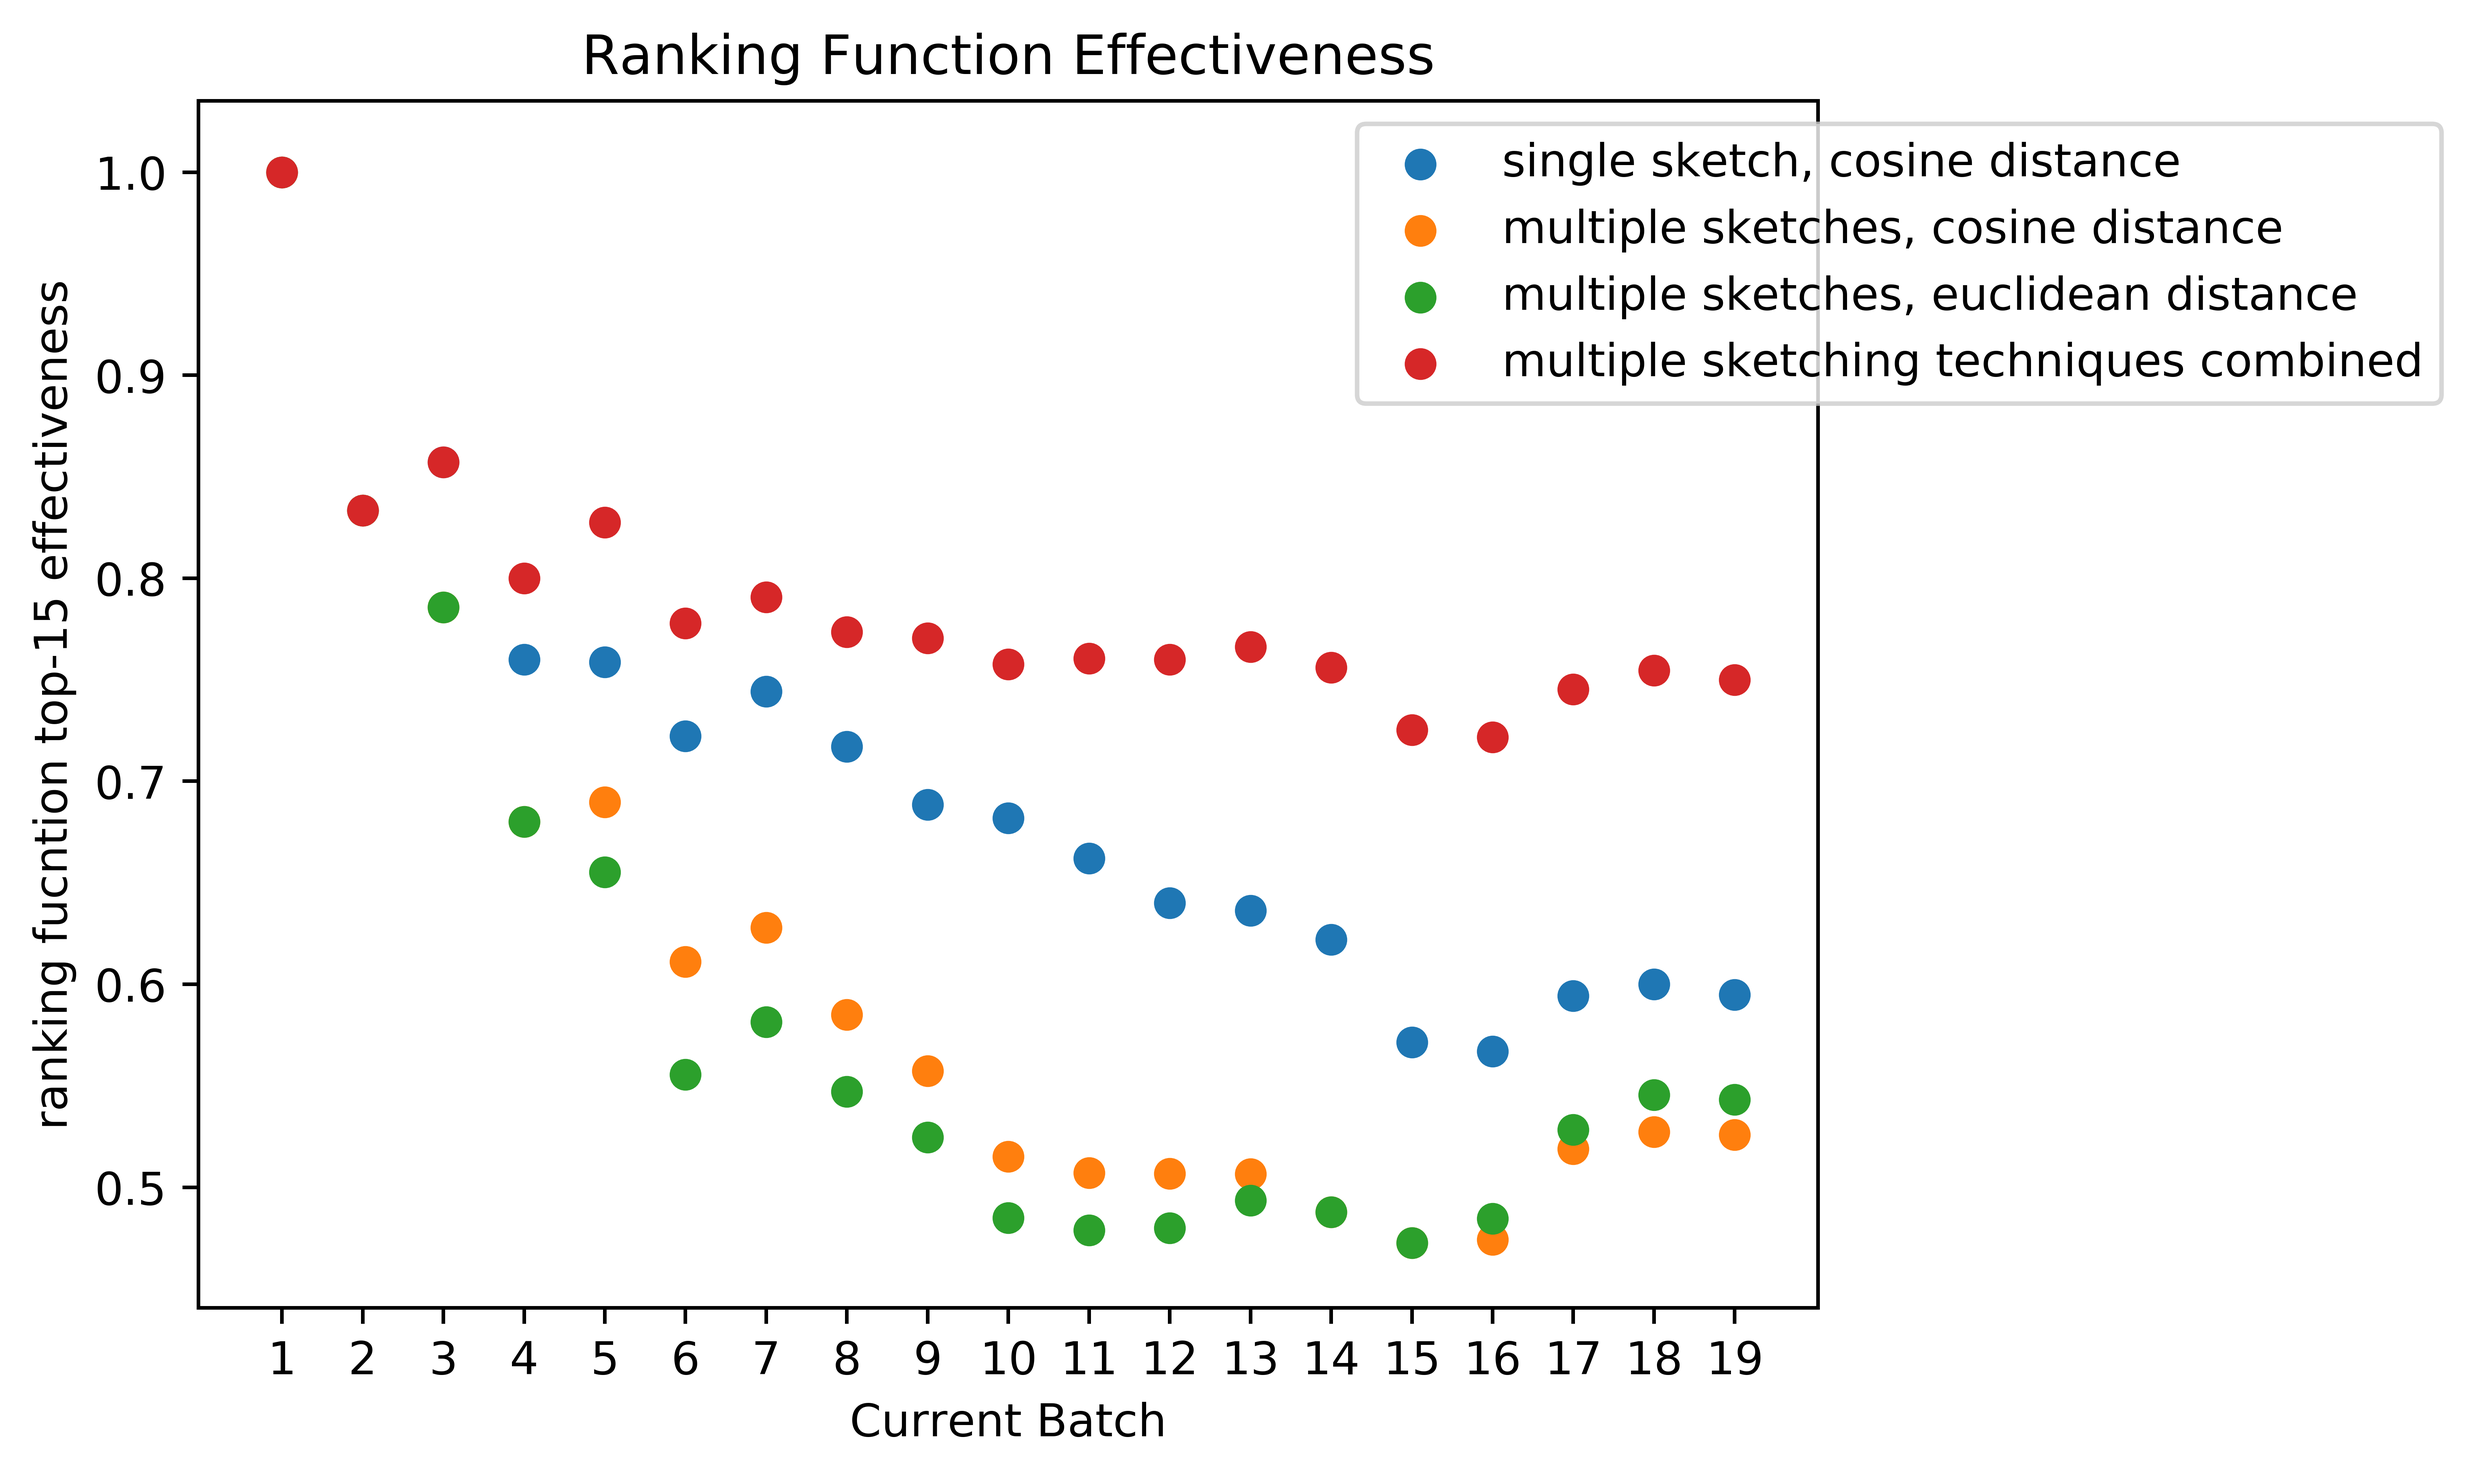
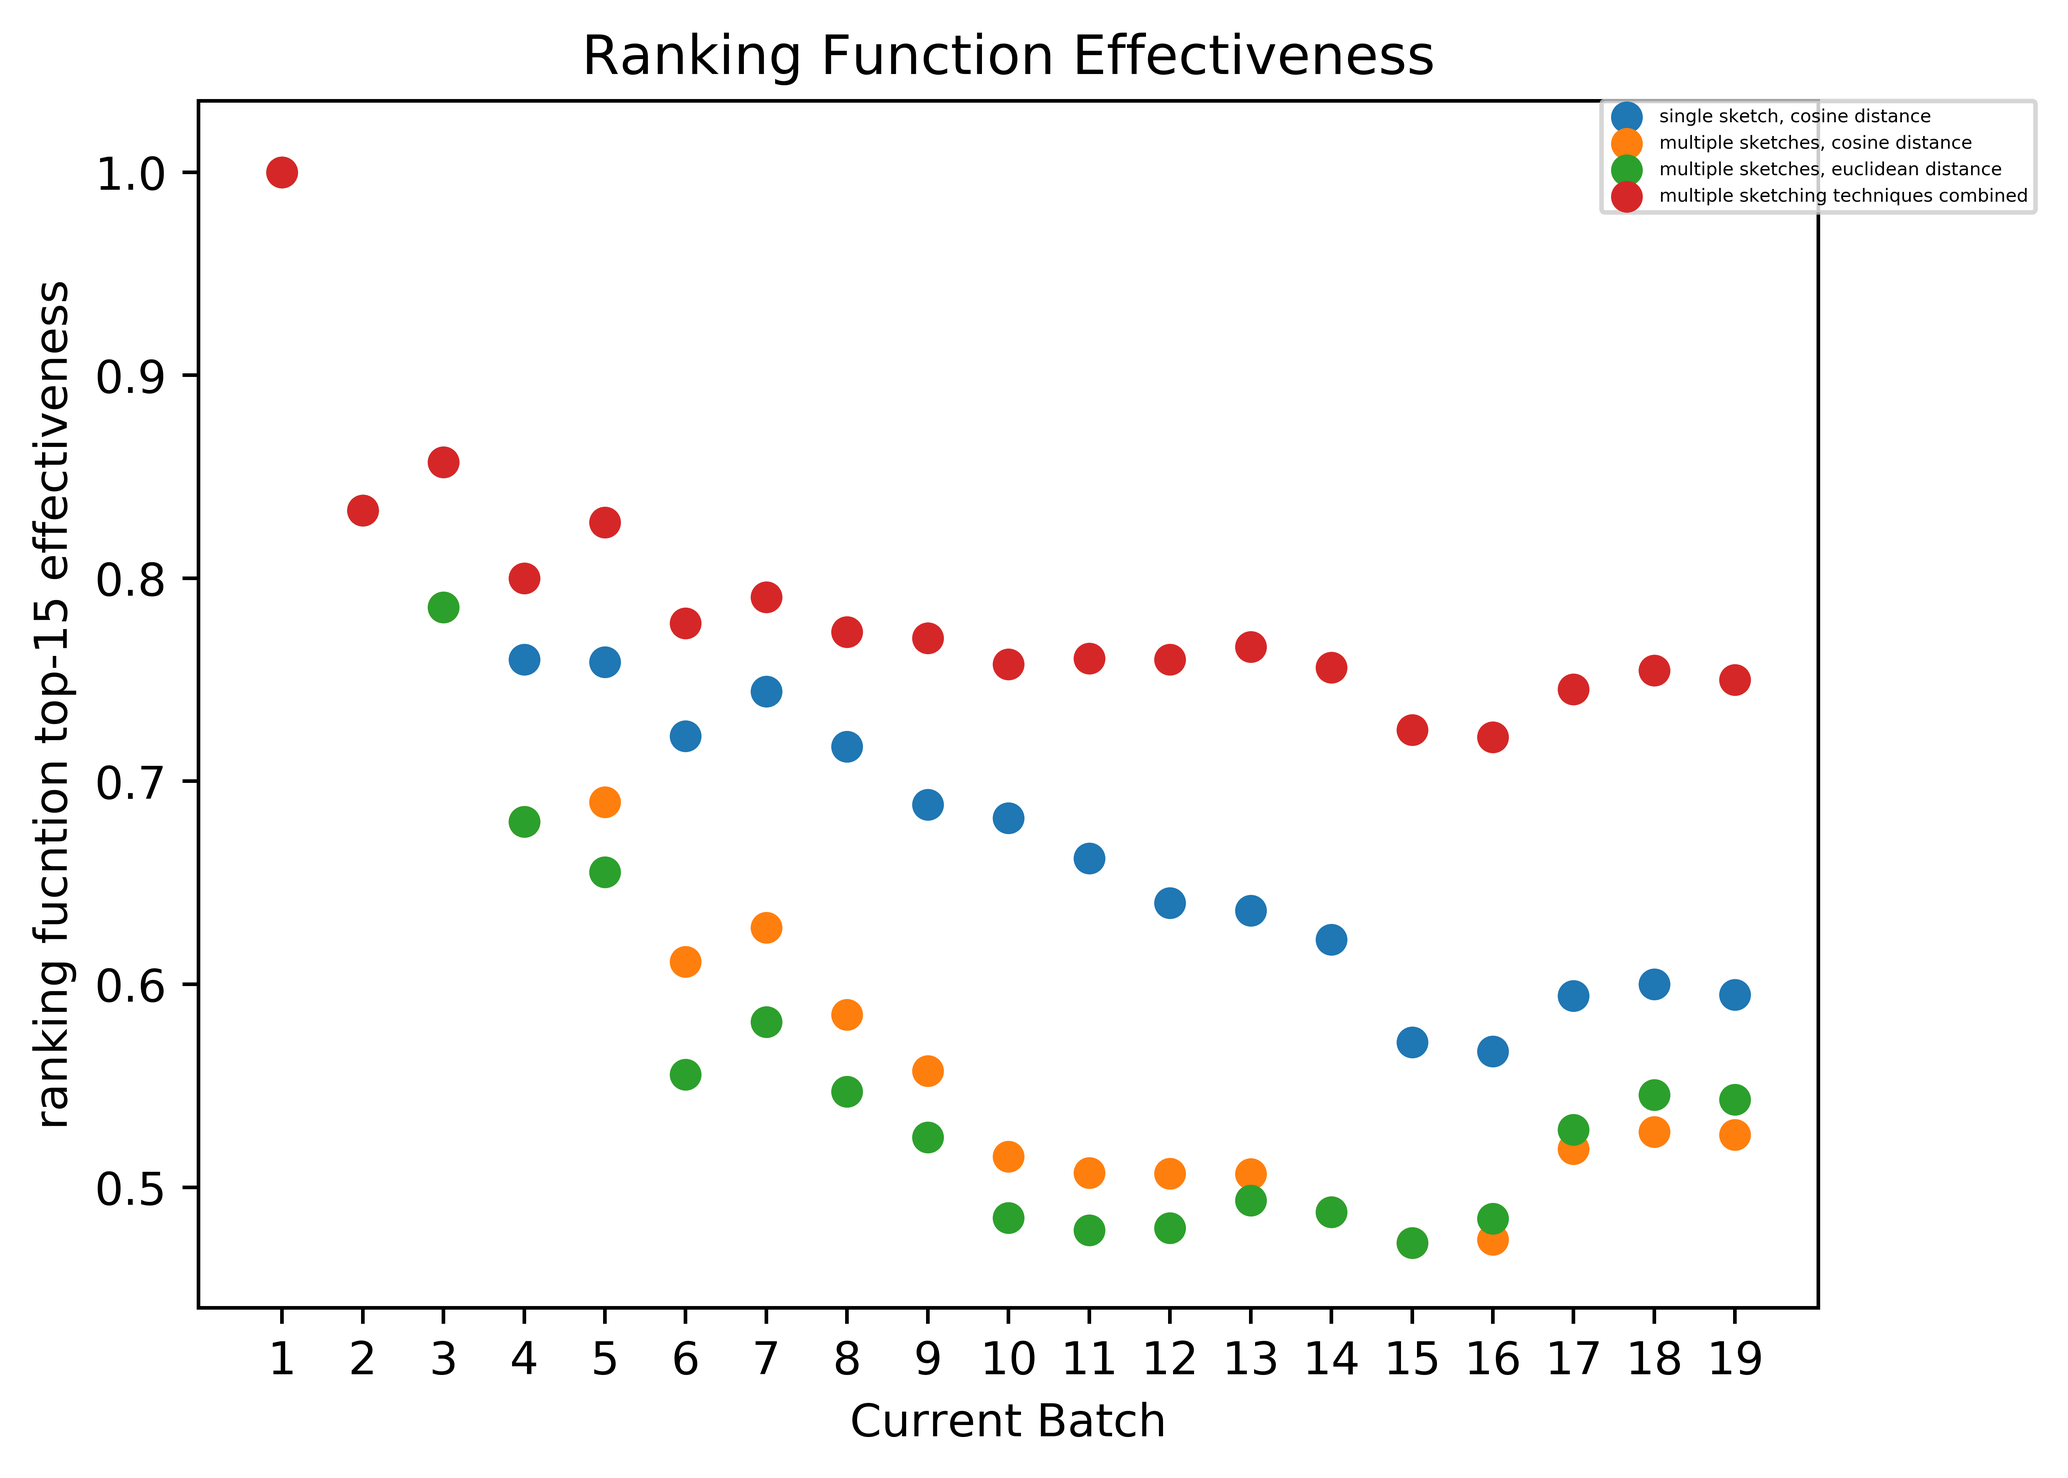
implementing stuffs

diff --git a/production_code/plot.py b/production_code/plot.py
@@ -36,7 +36,7 @@ plt.scatter(batches,combined_ranking_effectiveness,label='multiple sketching tec
 plt.title("Ranking Function Effectiveness")
 plt.ylabel('ranking fucntion top-15 effectiveness')
 plt.xlabel('Current Batch')
-lgd=plt.legend(bbox_to_anchor=(1.05, 1), loc=9)
+lgd=plt.legend(bbox_to_anchor=(1, 1), loc=9, prop={'size': 4}, borderaxespad=0.)
 
 plt.savefig('effectiveness-sketching.png', dpi = 900, bbox_extra_artists=(lgd,), bbox_inches='tight')
 plt.show()
